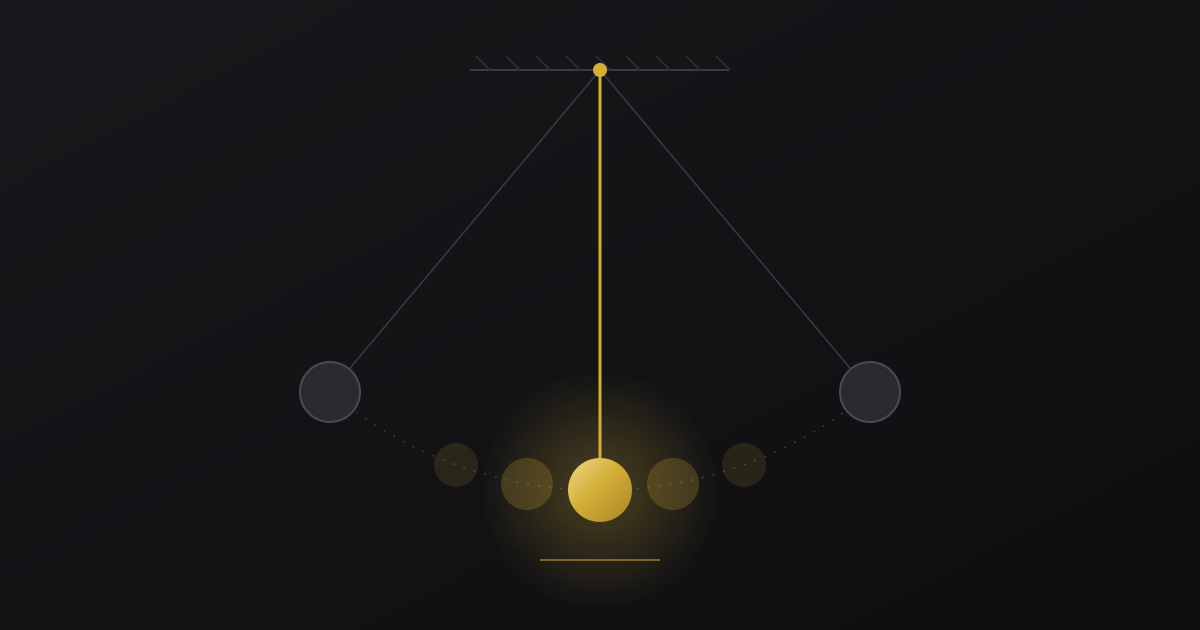
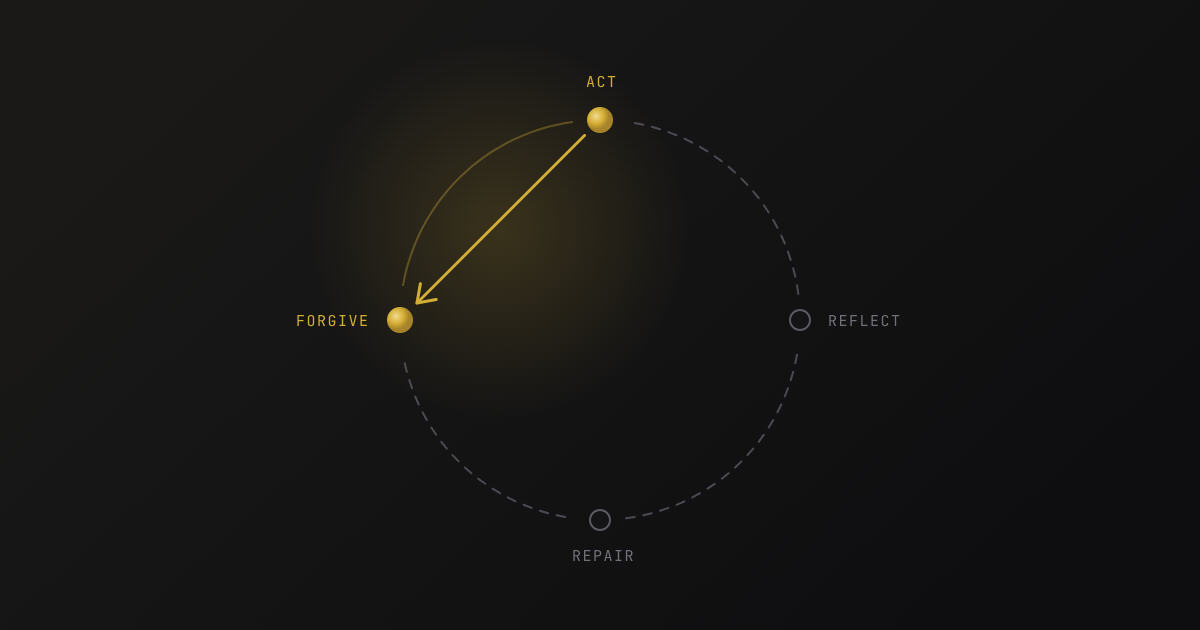
feat: redesigned essay covers, with light versions of every thumbnail
New Obsidian, Injury and Forgiveness covers from Pencil, plus light
versions of those and of the Pendulum cover. On essays the cover is the
thumbnail, so the post page's cover switches with the theme too.

diff --git a/pages/blog/[slug].jsx b/pages/blog/[slug].jsx
@@ -47,7 +47,15 @@ export default function BlogPost({post, morePosts}) {
                 </header>
                 {post.image ? (
                     <div className={style.cover}>
-                        <img src={post.image} alt=""/>
+                        {/* With no separate thumbnail, the cover is the thumbnail, so it takes the light version too. */}
+                        {!post.thumbnail && post.thumbnailLight ? (
+                            <>
+                                <img className={style.darkOnly} src={post.image} alt=""/>
+                                <img className={style.lightOnly} src={post.thumbnailLight} alt=""/>
+                            </>
+                        ) : (
+                            <img src={post.image} alt=""/>
+                        )}
                     </div>
                 ) : null}
                 <div className={style.body}>

diff --git a/pages/blog/post.module.css b/pages/blog/post.module.css
@@ -50,6 +50,14 @@
     object-fit: contain;
 }
 
+.lightOnly, :global(html[data-theme="light"]) .darkOnly {
+    display: none;
+}
+
+:global(html[data-theme="light"]) .lightOnly {
+    display: block;
+}
+
 .body {
     display: flex;
     flex-direction: column;

diff --git a/content/blog/the-modern-over-willingness-of-man.md b/content/blog/the-modern-over-willingness-of-man.md
@@ -2,6 +2,7 @@
 title: "The Modern Over-willingness of Man to Forgive Himself"
 date: "2026-10-20"
 image: "/blog/forgiveness/cover.png"
+thumbnailLight: "/blog/forgiveness/cover-light.png"
 tags: ["essay", "accountability", "self-improvement"]
 excerpt: "Self-forgiveness is good advice for the people who need it. Most of us are using it as a licence to skip the reflection."
 ---

diff --git a/content/blog/recovering-from-injury-its-easier.md b/content/blog/recovering-from-injury-its-easier.md
@@ -2,6 +2,7 @@
 title: "Recovering from Injury - It's easier than you think"
 date: "2026-10-22"
 image: "/blog/injury/cover.png"
+thumbnailLight: "/blog/injury/cover-light.png"
 tags: ["fitness", "injury-recovery", "training"]
 excerpt: "Tendonitis, sprains and a herniated disc, with a full recovery from every one. What actually got me back, and stronger."
 ---

diff --git a/content/blog/thoughts-on-obsidian-one-week-in.md b/content/blog/thoughts-on-obsidian-one-week-in.md
@@ -2,6 +2,7 @@
 title: "My Thoughts on Obsidian, 1 Week In"
 date: "2026-10-21"
 image: "/blog/obsidian/cover.png"
+thumbnailLight: "/blog/obsidian/cover-light.png"
 tags: ["obsidian", "tools", "note-taking"]
 excerpt: "A decade of forcing note-taking apps to work, and then a week with one that just does."
 ---

diff --git a/content/blog/pendulum-swings-and-society.md b/content/blog/pendulum-swings-and-society.md
@@ -2,6 +2,7 @@
 title: "Pendulum Swings and Society"
 date: "2026-10-23"
 image: "/blog/pendulum/cover.png"
+thumbnailLight: "/blog/pendulum/cover-light.png"
 tags: ["essay", "society", "physics"]
 excerpt: "Physics and Phronesis"
 ---
